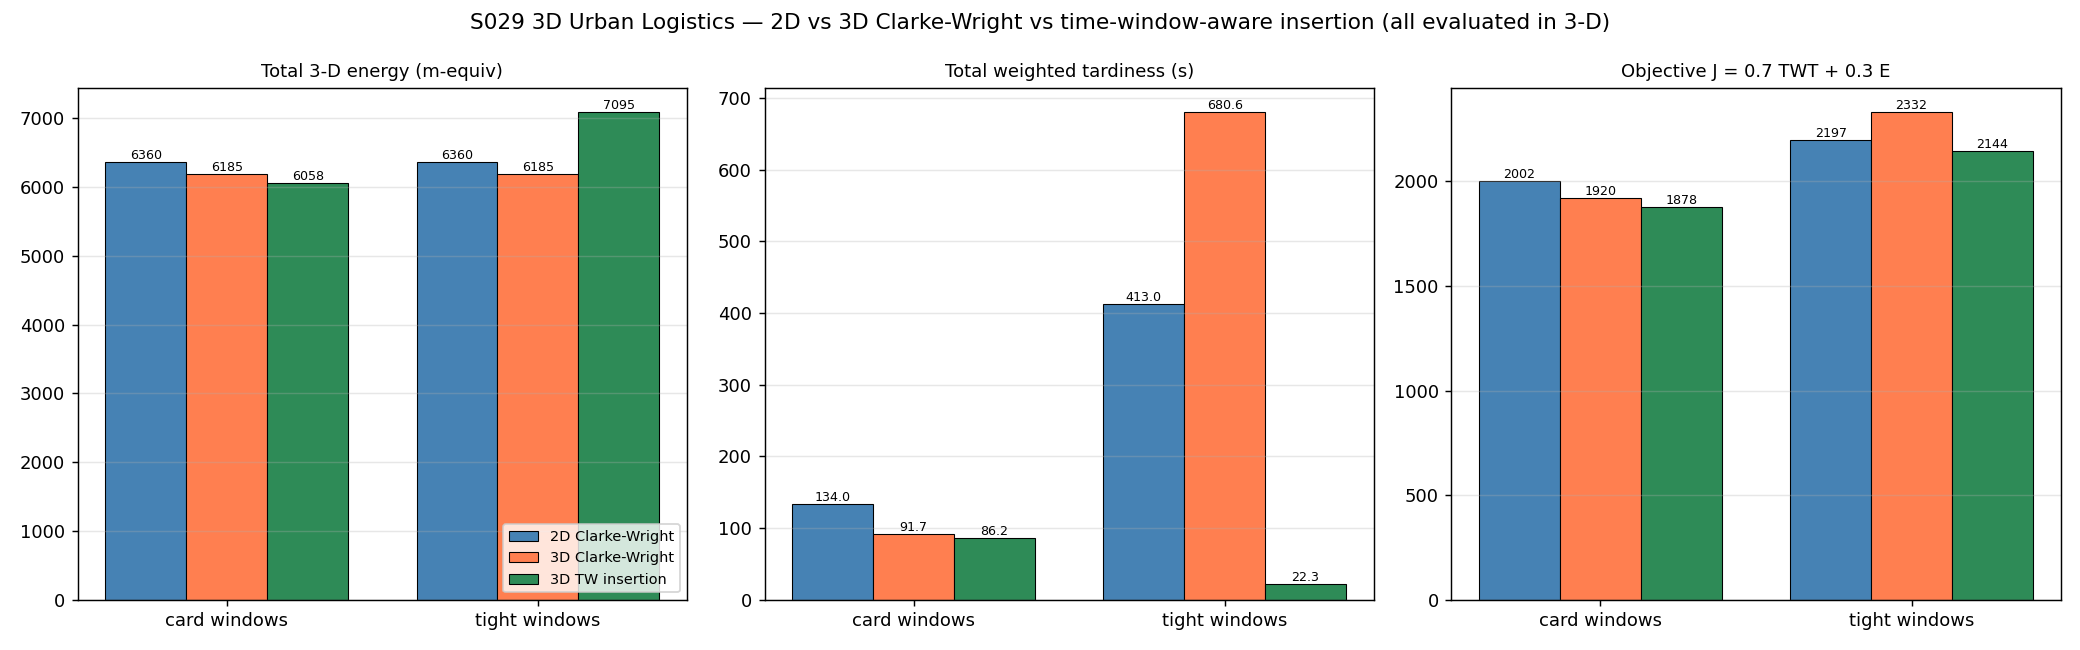
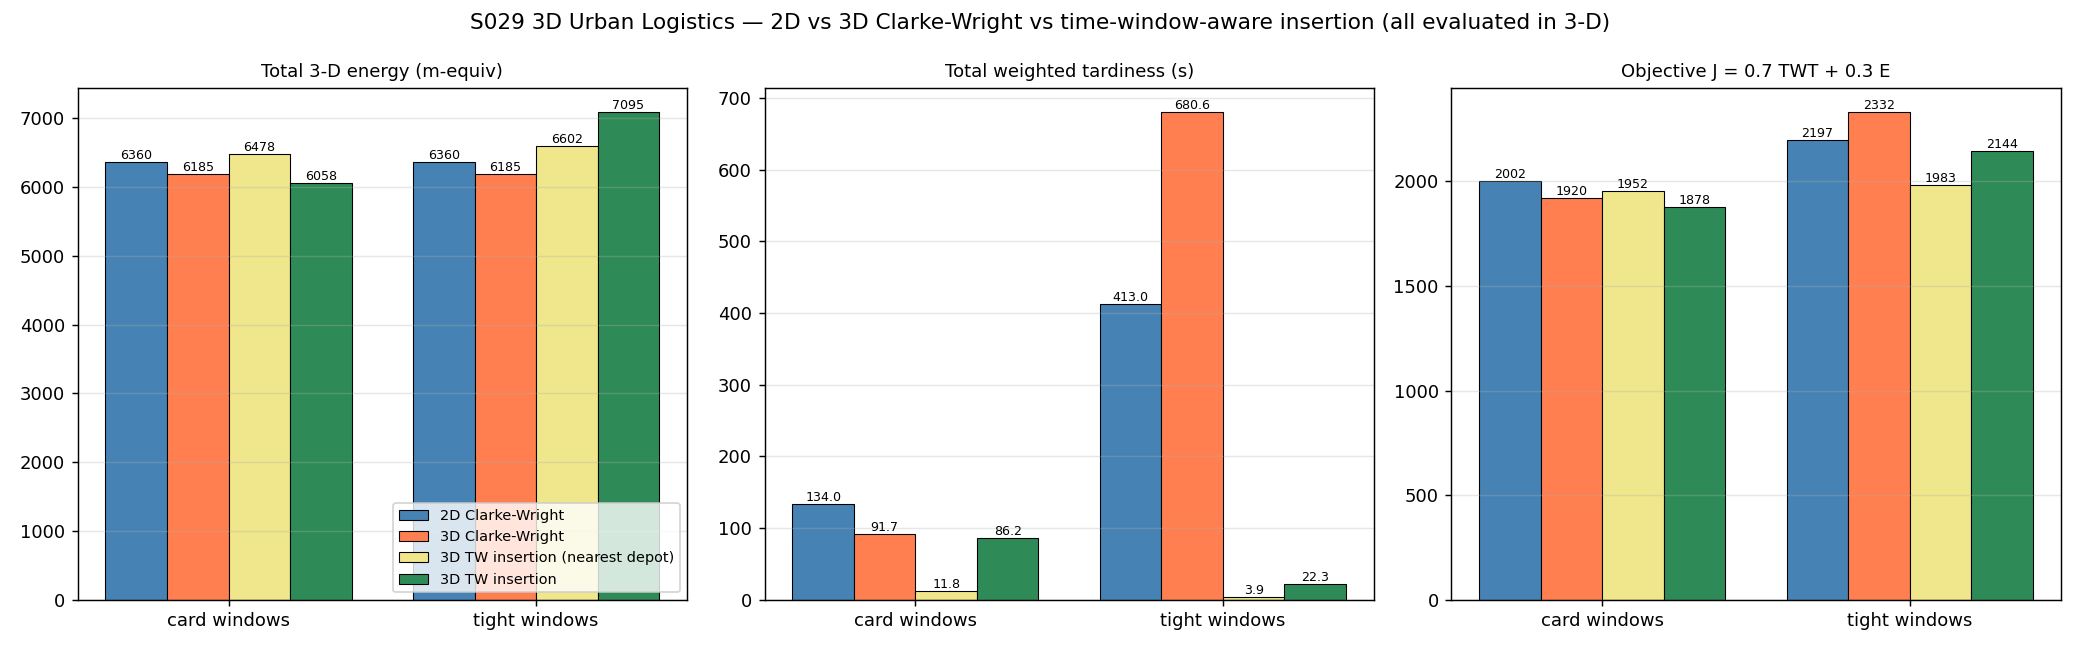
Fix S029 3D Urban Logistics Scheduling: address review follow-ups
- [C8/C9] TW insertion could use any depot while Clarke-Wright is limited to
  the nearest depot. Added a nearest-depot TW-insertion variant on both
  instances: it isolates time-window awareness (tight: J 2332.0 -> 1983.3,
  TWT 680.6 -> 3.9 s; card: J 1951.6, not better than 3D CW 1919.8). The
  any-depot result on the card windows (J 1877.7) comes from depot freedom
  (C5, C8 from non-nearest depots). README findings, tables and deviations
  rewritten; plots show four strategies.

diff --git a/src/02_logistics_delivery/3d/s029_3d_urban_logistics.py b/src/02_logistics_delivery/3d/s029_3d_urban_logistics.py
@@ -12,7 +12,9 @@ Strategies (all evaluated in true 3-D: 3-D flight times, 3-D energy):
   2. 3D Clarke-Wright   -- savings and feasibility with the 3-D energy metric
   3. 3D TW insertion    -- time-window-aware cheapest insertion of the card's
                            objective  J = alpha TWT + (1 - alpha) E_3D  with a
-                           relocate local search (VRPTW heuristic)
+                           relocate local search (VRPTW heuristic), run twice:
+                           restricted to each customer's nearest depot (same
+                           freedom as Clarke-Wright) and with any depot allowed
 
 Two instances: the card's time windows (seed 42) and a tight-window variant
 (same customers, windows from seed 2029) where the windows actually bind.
@@ -77,7 +79,9 @@ _rng_t  = np.random.default_rng(SEED_TIGHT)
 EARLY_T = _rng_t.uniform(0, 240, N_CUSTOMERS)
 LATE_T  = EARLY_T + _rng_t.uniform(20, 60, N_CUSTOMERS)
 INSTANCES = {'card': (EARLY, LATE), 'tight': (EARLY_T, LATE_T)}
-STRATS = ['2D Clarke-Wright', '3D Clarke-Wright', '3D TW insertion']
+STRATS = ['2D Clarke-Wright', '3D Clarke-Wright', '3D TW insertion (nearest depot)',
+          '3D TW insertion']
+NEAREST = np.argmin(np.linalg.norm(CUST_XY[:, None, :] - DEPOT_XY[None, :, :], axis=2), axis=1)
 
 
 # ── Costs and feasibility ─────────────────────────────────────────
@@ -197,10 +201,12 @@ def clarke_wright(inst, metric):
     return assign_sorties(sorties_by_depot, inst)
 
 
-def _best_insertion(plans, c, early, late, base):
+def _best_insertion(plans, c, early, late, base, restrict=False):
     best = None
     for k in range(N_DRONES):
         dep = DEPOT_OF_DRONE[k]
+        if restrict and dep != NEAREST[c]:
+            continue
         cands = []
         for si, s in enumerate(plans[k]):
             for pos in range(len(s) + 1):
@@ -216,12 +222,12 @@ def _best_insertion(plans, c, early, late, base):
     return best
 
 
-def tw_insertion(inst):
+def tw_insertion(inst, restrict=False):
     early, late = INSTANCES[inst]
     plans = [[] for _ in range(N_DRONES)]
     base = [0.0] * N_DRONES
     for c in sorted(range(N_CUSTOMERS), key=lambda c: (late[c], c)):
-        _, k, p = _best_insertion(plans, c, early, late, base)
+        _, k, p = _best_insertion(plans, c, early, late, base, restrict)
         plans[k] = p
         base[k] = drone_schedule(p, k, early, late)['obj']
     history = [sum(base)]
@@ -235,7 +241,7 @@ def tw_insertion(inst):
             trial[k0] = reduced
             tbase = list(base)
             tbase[k0] = drone_schedule(reduced, k0, early, late)['obj']
-            _, k, p = _best_insertion(trial, c, early, late, tbase)
+            _, k, p = _best_insertion(trial, c, early, late, tbase, restrict)
             new_k = drone_schedule(p, k, early, late)['obj']
             if sum(tbase) - tbase[k] + new_k < sum(base) - 1e-6:
                 trial[k] = p
@@ -265,6 +271,8 @@ def run_simulation():
         res[inst] = {}
         res[inst]['2D Clarke-Wright'] = evaluate(clarke_wright(inst, energy_flat), inst)
         res[inst]['3D Clarke-Wright'] = evaluate(clarke_wright(inst, energy_3d), inst)
+        plans, hn = tw_insertion(inst, restrict=True)
+        res[inst]['3D TW insertion (nearest depot)'] = evaluate(plans, inst)
         plans, h = tw_insertion(inst)
         res[inst]['3D TW insertion'] = evaluate(plans, inst)
         hist[inst] = h
@@ -272,11 +280,15 @@ def run_simulation():
         print(f'\n=== {inst} time windows ===')
         for s in STRATS:
             r = res[inst][s]
-            print(f'  {s:<17s} energy {r["energy"]:7.1f} m-eq  TWT {r["twt"]:6.1f} s '
+            print(f'  {s:<31s} energy {r["energy"]:7.1f} m-eq  TWT {r["twt"]:6.1f} s '
                   f'({r["n_late"]} late)  J {r["objective"]:7.1f}  makespan {r["makespan"]:6.1f} s  '
                   f'sorties {r["n_sorties"]}/drones {r["n_drones"]}  max load {r["max_load"]:.2f} kg  '
                   f'max sortie E {r["max_e3"]:.1f}  climb+descent {r["climb"]:.0f} m')
             print(f'      plan: {_fmt_plan(r["plans"])}')
+            off = [c for k, p in enumerate(r['plans']) for sx in p for c in sx
+                   if DEPOT_OF_DRONE[k] != NEAREST[c]]
+            print(f'      customers served from a non-nearest depot: '
+                  f'{", ".join(f"C{c + 1}" for c in sorted(off)) if off else "none"}')
             ex = r['extra_t']
             print(f'      altitude-change legs: {len(ex)}, extra flight time vs flat '
                   f'{min(ex):.2f}-{max(ex):.2f} s per leg, {sum(ex):.2f} s in total')
@@ -291,10 +303,18 @@ def run_simulation():
         rel = (f'{dt_ / b2["twt"] * 100:+.1f}%' if b2['twt'] > 1e-9
                else 'n/a, 2D TWT is 0')
         print(f'  3D vs 2D Clarke-Wright: energy {de:+.1f}%, TWT {dt_:+.1f} s ({rel})')
-        if len(h) > 1:
-            print(f'  TW insertion local search: J {h[0]:.1f} -> {h[-1]:.1f} in {len(h) - 1} moves')
-        else:
-            print(f'  TW insertion local search: no improving move (J {h[0]:.1f})')
+        for lab, hh in [('TW insertion (nearest depot)', hn), ('TW insertion (any depot)', h)]:
+            if len(hh) > 1:
+                print(f'  {lab} local search: J {hh[0]:.1f} -> {hh[-1]:.1f} in {len(hh) - 1} moves')
+            else:
+                print(f'  {lab} local search: no improving move (J {hh[0]:.1f})')
+        rn, ra = res[inst]['3D TW insertion (nearest depot)'], res[inst]['3D TW insertion']
+        print(f'  Effect of time-window awareness (nearest depot, vs 3D Clarke-Wright): '
+              f'J {b3["objective"]:.1f} -> {rn["objective"]:.1f}, TWT {b3["twt"]:.1f} -> {rn["twt"]:.1f} s, '
+              f'energy {b3["energy"]:.1f} -> {rn["energy"]:.1f}')
+        print(f'  Effect of free depot choice (vs nearest-depot TW insertion): '
+              f'J {rn["objective"]:.1f} -> {ra["objective"]:.1f}, TWT {rn["twt"]:.1f} -> {ra["twt"]:.1f} s, '
+              f'energy {rn["energy"]:.1f} -> {ra["energy"]:.1f}')
     return res, hist
 
 
@@ -330,7 +350,7 @@ def _draw_map(ax, r, title):
 
 def plot_3d_routes(res, out_dir):
     fig = plt.figure(figsize=(16, 7.5))
-    for i, (inst, s) in enumerate([('card', '3D Clarke-Wright'), ('tight', '3D TW insertion')]):
+    for i, (inst, s) in enumerate([('card', '3D Clarke-Wright'), ('tight', '3D TW insertion (nearest depot)')]):
         ax = fig.add_subplot(1, 2, i + 1, projection='3d')
         r = res[inst][s]
         _draw_map(ax, r, f'{s}, {inst} windows: E = {r["energy"]:.0f} m-eq, TWT = {r["twt"]:.1f} s')
@@ -350,7 +370,7 @@ def plot_3d_routes(res, out_dir):
 
 
 def plot_altitude_profiles(res, out_dir):
-    cases = [('card', '3D Clarke-Wright'), ('tight', '3D TW insertion')]
+    cases = [('card', '3D Clarke-Wright'), ('tight', '3D TW insertion (nearest depot)')]
     fig, axes = plt.subplots(2, 1, figsize=(13, 8.5), sharex=True)
     for ax, (inst, s) in zip(axes, cases):
         r = res[inst][s]
@@ -382,15 +402,15 @@ def plot_altitude_profiles(res, out_dir):
 
 def plot_energy_comparison(res, out_dir):
     fig, axes = plt.subplots(1, 3, figsize=(16, 5))
-    cols = ['steelblue', 'coral', 'seagreen']
+    cols = ['steelblue', 'coral', 'khaki', 'seagreen']
     x = np.arange(len(INSTANCES))
-    w = 0.26
+    w = 0.2
     for ax, key, lab in zip(axes, ['energy', 'twt', 'objective'],
                             ['Total 3-D energy (m-equiv)', 'Total weighted tardiness (s)',
                              f'Objective J = {ALPHA} TWT + {1 - ALPHA:.1f} E']):
         for i, s in enumerate(STRATS):
             vals = [res[inst][s][key] for inst in INSTANCES]
-            bars = ax.bar(x + (i - 1) * w, vals, w, color=cols[i], edgecolor='black', lw=0.6, label=s)
+            bars = ax.bar(x + (i - 1.5) * w, vals, w, color=cols[i], edgecolor='black', lw=0.6, label=s)
             for b, v in zip(bars, vals):
                 ax.text(b.get_x() + b.get_width() / 2, b.get_height(), f'{v:.0f}' if key != 'twt' else f'{v:.1f}',
                         ha='center', va='bottom', fontsize=7)

diff --git a/outputs/02_logistics_delivery/3d/s029_3d_urban_logistics/README.md b/outputs/02_logistics_delivery/3d/s029_3d_urban_logistics/README.md
@@ -21,7 +21,9 @@ Each customer has a time window $[e_c, l_c]$. A drone that arrives early waits u
 
 1. **2D Clarke-Wright**: savings and feasibility computed on flat geometry, so altitude is ignored when planning.
 2. **3D Clarke-Wright**: savings and feasibility use the card's 3D energy metric.
-3. **3D TW insertion**: a time-window-aware heuristic for the card's objective $J$. It inserts customers in order of their deadline, each at the cheapest place over all drones, sorties and positions. A relocate local search follows.
+3. **3D TW insertion**: a time-window-aware heuristic for the card's objective $J$. It inserts customers in order of their deadline, each at the cheapest place over the allowed drones, sorties and positions. A relocate local search follows. It runs in two variants:
+   - **nearest depot**: each customer may only go to a drone of its nearest depot. This is the same freedom Clarke-Wright has, so this variant isolates the effect of time-window awareness;
+   - **any depot**: all 6 drones are allowed. This adds the freedom to serve a customer from a farther depot.
 
 Two instances are used:
 
@@ -77,6 +79,7 @@ Two instances are used:
 | Multiple sorties per drone | "6 drones serve all customers" | a drone may fly several sorties, each returning to its depot | depot 2 has more sorties than drones; the old script chained them without a return and overloaded a drone (4.4 kg against 3.0 kg) |
 | 2D baseline timing | — | 2D plans are flown and timed in true 3D | the old script timed them on flat geometry |
 | Solver | — | heuristics only (no exact VRPTW) | no MILP / OR-Tools solver in the environment |
+| Depot choice | not specified | Clarke-Wright and nearest-depot TW insertion use each customer's nearest depot; any-depot TW insertion may use any depot | the any-depot variant serves C5 and C8 (card windows) and C1, C9 and C11 (tight windows) from a non-nearest depot. Part of its difference from Clarke-Wright therefore comes from depot freedom, not from time windows; the nearest-depot variant separates the two effects. |
 
 ---
 
@@ -86,46 +89,57 @@ Console output of `python src/02_logistics_delivery/3d/s029_3d_urban_logistics.p
 
 ### Card time windows (earliest 15.6–116.1 s, width ≈ 60.9–159.9 s)
 
-| Metric | 2D Clarke-Wright | 3D Clarke-Wright | 3D TW insertion |
-|--------|------------------|------------------|-----------------|
-| Total 3D energy | 6359.8 m-eq | 6185.3 m-eq | **6057.9 m-eq** |
-| Total weighted tardiness | 134.0 s (2 late) | 91.7 s (2 late) | **86.2 s** (3 late) |
-| Objective J (α = 0.7) | 2001.7 | 1919.8 | **1877.7** |
-| Makespan | 239.7 s | **218.5 s** | 275.7 s |
-| Sorties / drones used | 6 / 5 | 6 / 5 | 5 / 3 |
-| Max sortie load | 2.45 kg | 2.39 kg | 2.74 kg |
-| Total climb + descent | 680 m | **540 m** | **540 m** |
-| Extra time from altitude changes | 5.96 s (0.08–2.03 s per leg) | 3.18 s (0.08–0.67 s per leg) | 3.19 s (0.05–0.67 s per leg) |
+| Metric | 2D Clarke-Wright | 3D Clarke-Wright | TW insertion, nearest depot | TW insertion, any depot |
+|--------|------------------|------------------|-----------------------------|-------------------------|
+| Total 3D energy | 6359.8 m-eq | 6185.3 m-eq | 6477.6 m-eq | **6057.9 m-eq** |
+| Total weighted tardiness | 134.0 s (2 late) | 91.7 s (2 late) | **11.8 s** (2 late) | 86.2 s (3 late) |
+| Objective J (α = 0.7) | 2001.7 | 1919.8 | 1951.6 | **1877.7** |
+| Makespan | 239.7 s | **218.5 s** | 232.9 s | 275.7 s |
+| Sorties / drones used | 6 / 5 | 6 / 5 | 6 / 4 | 5 / 3 |
+| Customers from a non-nearest depot | none | none | none | C5, C8 |
+| Max sortie load | 2.45 kg | 2.39 kg | 2.32 kg | 2.74 kg |
+| Total climb + descent | 680 m | **540 m** | 600 m | **540 m** |
+| Extra time from altitude changes | 5.96 s (0.08–2.03 s per leg) | 3.18 s (0.08–0.67 s per leg) | 3.38 s (0.08–0.67 s per leg) | 3.19 s (0.05–0.67 s per leg) |
 
 Plans (drone: sorties separated by |):
 
 - 2D CW: drone1 C5-C8; drone3 C2-C10; drone4 C4-C12 | C3-C6-C7; drone5 C9; drone6 C1-C11.
 - 3D CW: drone1 C5-C8; drone3 C2-C12; drone4 C4-C10 | C3-C6-C7; drone5 C9; drone6 C1-C11.
-- TW insertion: drone3 C7-C10 | C6-C3-C5-C4; drone4 C2-C12; drone5 C8-C9 | C1-C11.
+- TW insertion, nearest depot: drone1 C5-C8; drone3 C7-C10 | C6-C3-C4; drone4 C2-C12; drone5 C9 | C11-C1.
+- TW insertion, any depot: drone3 C7-C10 | C6-C3-C5-C4; drone4 C2-C12; drone5 C8-C9 | C1-C11.
 
 3D CW vs 2D CW: energy −2.7 %, TWT −42.3 s (−31.6 %).
 
 ### Tight time windows (earliest 9.2–191.8 s, width ≈ 20.6–56.4 s)
 
-| Metric | 2D Clarke-Wright | 3D Clarke-Wright | 3D TW insertion |
-|--------|------------------|------------------|-----------------|
-| Total 3D energy | 6359.8 m-eq | **6185.3 m-eq** | 7095.3 m-eq |
-| Total weighted tardiness | 413.0 s (6 late) | 680.6 s (6 late) | **22.3 s** (4 late) |
-| Objective J (α = 0.7) | 2197.1 | 2332.0 | **2144.2** |
-| Makespan | **244.2 s** | 313.9 s | 276.1 s |
-| Sorties / drones used | 6 / 5 | 6 / 5 | 5 / 3 |
+| Metric | 2D Clarke-Wright | 3D Clarke-Wright | TW insertion, nearest depot | TW insertion, any depot |
+|--------|------------------|------------------|-----------------------------|-------------------------|
+| Total 3D energy | 6359.8 m-eq | **6185.3 m-eq** | 6601.9 m-eq | 7095.3 m-eq |
+| Total weighted tardiness | 413.0 s (6 late) | 680.6 s (6 late) | **3.9 s** (1 late) | 22.3 s (4 late) |
+| Objective J (α = 0.7) | 2197.1 | 2332.0 | **1983.3** | 2144.2 |
+| Makespan | 244.2 s | 313.9 s | **227.4 s** | 276.1 s |
+| Sorties / drones used | 6 / 5 | 6 / 5 | 6 / 5 | 5 / 3 |
+| Customers from a non-nearest depot | none | none | none | C1, C9, C11 |
 
-3D CW vs 2D CW: energy −2.7 %, TWT +267.6 s (+64.8 %). The TW insertion local search improved J from 2050.8 to 1877.7 in 4 moves on the card windows; on the tight windows no relocate move improved J (2144.2).
+3D CW vs 2D CW: energy −2.7 %, TWT +267.6 s (+64.8 %).
+
+TW insertion local search:
+
+| | Card windows | Tight windows |
+|---|---|---|
+| Nearest depot | J 2191.5 → 1951.6 in 4 moves | J 2072.7 → 1983.3 in 2 moves |
+| Any depot | J 2050.8 → 1877.7 in 4 moves | no improving move (J 2144.2) |
 
 ### Findings
 
 - **Altitude-aware savings pair customers by altitude.** The 2D planner pairs rooftop C12 with residential C4, and rooftop C2 with residential C10. The 3D planner pairs the two rooftops (C2-C12) and the two residential stops (C4-C10). Total climb plus descent drops from 680 m to 540 m, and the 3D energy drops by 2.7 % (6359.8 → 6185.3 m-eq).
 - **The late deliveries come from sortie queueing, not from climbing.** On the card windows, 3D Clarke-Wright is late only at C6 (52.1 s) and C7 (39.5 s). Depot 2 has three sorties but two drones, so drone 4 flies C3-C6-C7 only after returning from C4-C10 (see the altitude profiles). Climbing adds just 0.08–0.67 s per altitude-change leg, 3.18 s for the whole plan. The old README blamed "4.7 s per rooftop ascent", which matches neither the data nor the geometry. The old script's only late customer, C9 (43.3 s), was late because sorties were chained without returning to the depot.
 - **Clarke-Wright tardiness is luck.** On the tight windows, 3D Clarke-Wright is *later* than 2D (680.6 vs 413.0 s). The C3-C6-C7 sortie is now queued behind the longer C2-C12 rooftop sortie, and C4-C10 replaces C4-C12, which makes C10 late. Neither planner looks at the windows.
-- **The time-window-aware planner wins on the card's objective.** It has the lowest J on both instances: 1877.7 vs 1919.8 on the card windows, and 2144.2 vs 2197.1 / 2332.0 on the tight windows.
-  - On the tight windows it cuts tardiness from 413.0 / 680.6 s to 22.3 s, at +14.7 % energy versus 3D Clarke-Wright (7095.3 vs 6185.3 m-eq).
-  - On the card windows it is also the cheapest in energy (6057.9 m-eq). It accepts 3 slightly late customers (C6 8.3 s, C5 31.5 s, C4 46.4 s) instead of two very late ones.
-  - It uses only 3 drones and has the longest makespan (275.7 s). Under α = 0.7, idle drones carry no cost.
+- **Time-window awareness alone** is measured by the nearest-depot TW insertion, which has the same depot freedom as Clarke-Wright.
+  - **Tight windows**: it clearly pays off. TWT falls from 680.6 s to 3.9 s (1 late customer), and J from 2332.0 to 1983.3, the best of all four strategies. Energy rises 6.7 % (6185.3 → 6601.9 m-eq).
+  - **Card windows**: it does *not* beat 3D Clarke-Wright on J (1951.6 vs 1919.8). It cuts TWT from 91.7 s to 11.8 s, worth 0.7 × 79.9 = 55.9, but spends 292.3 m-eq more energy, costing 0.3 × 292.3 = 87.7. With these mostly loose windows, Clarke-Wright's energy-optimal routes are hard to beat.
+- **Free depot choice, not time windows, explains the card-window result.** The any-depot TW insertion has the lowest J on the card windows (1877.7) and the lowest energy (6057.9 m-eq). It serves C5 from depot 2 and C8 from depot 3 instead of their nearest depot 1, and accepts more tardiness than the nearest-depot variant (86.2 vs 11.8 s). The earlier README credited this result to time-window awareness, which was wrong.
+- **More freedom does not guarantee a better heuristic result.** On the tight windows the any-depot variant is *worse* than the nearest-depot one: J 2144.2 vs 1983.3, TWT 22.3 vs 3.9 s, energy 7095.3 vs 6601.9 m-eq. Its greedy deadline-order insertion uses depot freedom early (C1, C9, C11 from non-nearest depots). The one-customer relocate search then finds no improving move, so it stays in a worse local optimum. Both are heuristics, not optimal VRPTW solutions.
 - **Capacity now holds.** Every sortie returns to its depot. The old script concatenated a depot's routes into one drone path, and drone 3 carried 4.4 kg against a 3.0 kg limit. The script now asserts `max load ≤ Q_MAX`; the largest load is 2.74 kg.
 - The old "Tardiness change: +4333170755.0%" came from dividing by a zero 2D tardiness. The relative change is now printed only when the 2D TWT is positive.
 
@@ -135,19 +149,19 @@ Plans (drone: sorties separated by |):
 
 ### 3D Route Map
 
-Left: 3D Clarke-Wright on the card windows. Right: TW insertion on the tight windows. Customers are coloured by zone. The dashed lines are a drone's second or later sorties; every sortie returns to its depot:
+Left: 3D Clarke-Wright on the card windows. Right: nearest-depot TW insertion on the tight windows. Customers are coloured by zone. The dashed lines are a drone's second or later sorties; every sortie returns to its depot:
 
 ![3D Routes](routes_3d.png)
 
 ### Altitude Profiles
 
-Per-drone altitude against time, including waits, service and depot returns. The dots mark service start, and red crosses mark late deliveries:
+Per-drone altitude against time, including waits, service and depot returns. Top: 3D Clarke-Wright on the card windows. Bottom: nearest-depot TW insertion on the tight windows. The dots mark service start, and red crosses mark late deliveries:
 
 ![Altitude Profiles](altitude_profiles.png)
 
 ### Strategy Comparison
 
-Total 3D energy, total weighted tardiness and the card objective J for the three strategies on both instances:
+Total 3D energy, total weighted tardiness and the card objective J for the four strategies on both instances:
 
 ![Energy Comparison](energy_comparison.png)
 
